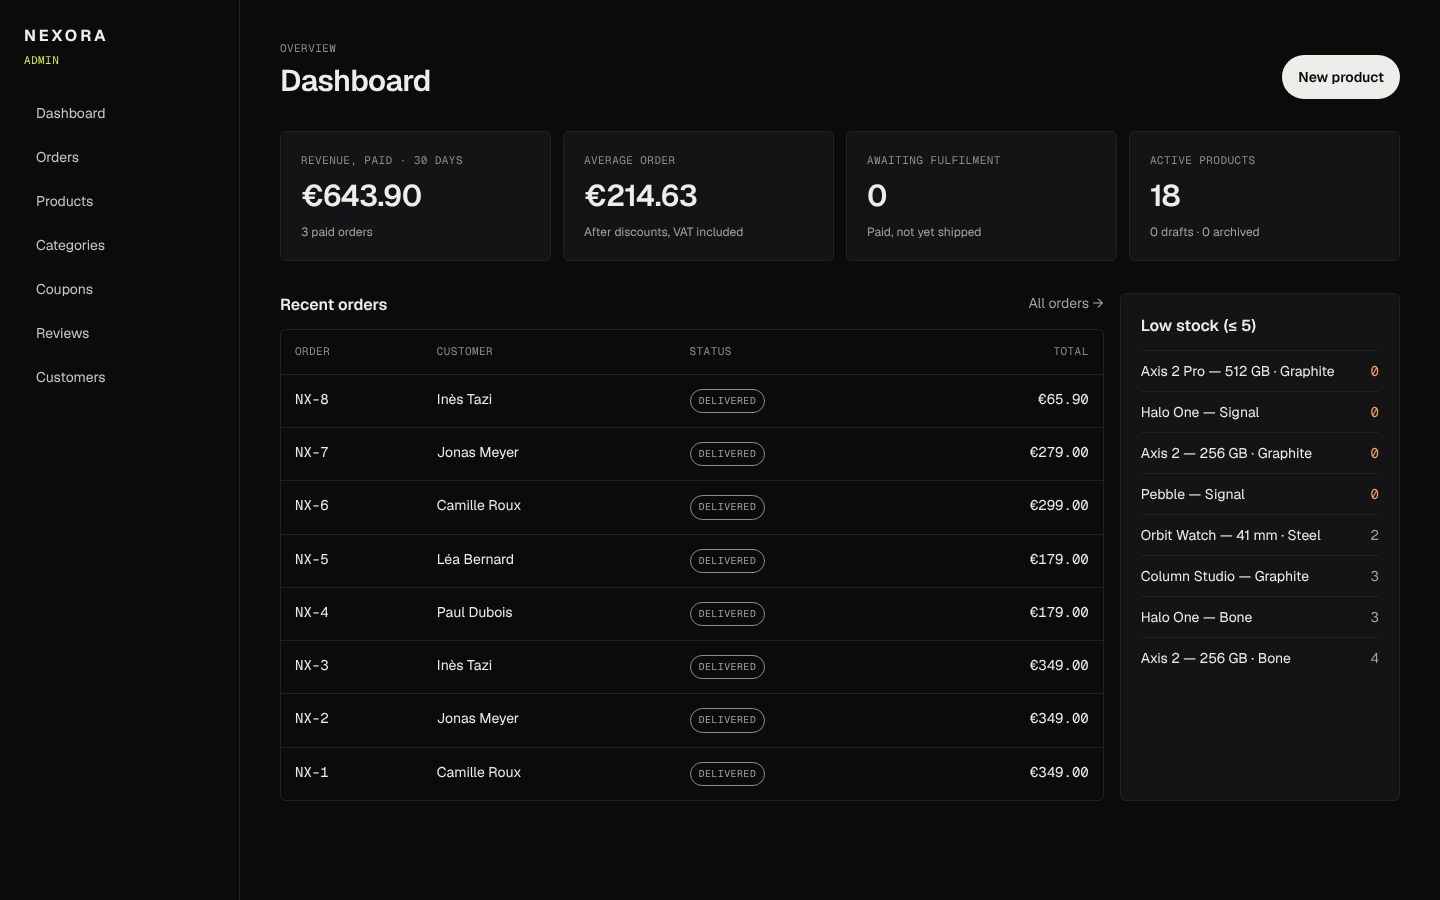
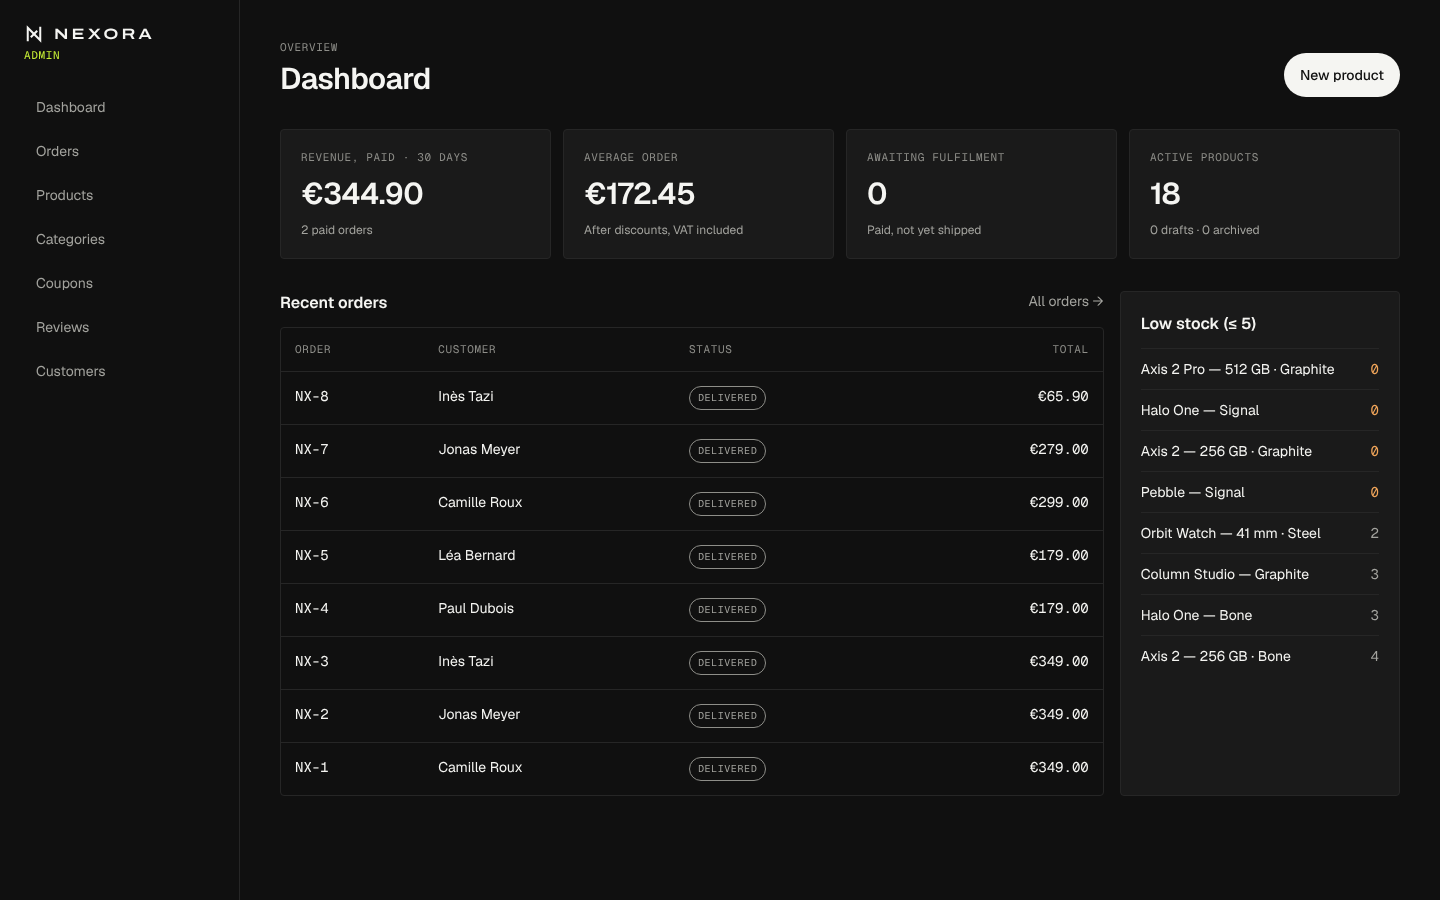
docs: redesign notes, measured Lighthouse, screenshots, responsive QA script
- README: design system and imagery section, ADR index, Lighthouse re-measured
  after the redesign (warm-cache range, compared with the first release)
- feature report: reduced-motion and no-JS checks, honest limits of renders
  and streamed sections without JavaScript
- testing guide: scripts/dev/qa-shots.mjs for screenshots, console errors and
  horizontal overflow at 320–1600 px
- screenshots regenerated from the production build

diff --git a/README.md b/README.md
@@ -44,6 +44,20 @@ Browser ──► Next.js 16 (App Router, React 19, Server Components, Server Ac
 A modular monolith: one deployable, with module boundaries that could become services later
 ([ADR-0001](docs/adr/0001-modular-monolith-nextjs.md)).
 
+### Design system and imagery
+
+- **Monochrome, semantic tokens.** `canvas`, `surface`, `fg`, `line`… defined once; `.theme-dark` re-maps
+  them, so the engineering story, campaign, footer and admin are dark without a second set of classes.
+  Every colour pair is checked for WCAG AA ([ADR-0009](docs/adr/0009-design-system-and-motion.md)).
+- **Type:** Archivo (variable width, subset to 32 KB) for display, Geist for text, Geist Mono for labels.
+- **Brand:** an original N/X monogram drawn on a 24-unit grid, a live-text wordmark, a first-visit intro
+  that plays once per session and never with reduced motion.
+- **Motion:** CSS for the hero and intro, one `RevealObserver` (Web Animations API) for scroll reveals, a
+  conceptual noise-cancelling diagram labelled as such. No animation library added.
+- **Product images** are rendered with three.js from procedural models built to the catalogue's specs, in
+  one shared studio setup ([ADR-0008](docs/adr/0008-procedural-product-renders.md)). Not stock photos: those
+  would show other companies' products under NEXORA names.
+
 ### Decisions worth reading
 
 | ADR                                                              | Decision                                                                                                              |
@@ -55,11 +69,12 @@ A modular monolith: one deployable, with module boundaries that could become ser
 | [0006](docs/adr/0006-cache-components-and-db-at-runtime.md)      | Cache Components with tagged catalog caching; the build needs no database                                             |
 | [0007](docs/adr/0007-migrations-from-restricted-environments.md) | How migrations were generated where the Prisma engine couldn't be downloaded                                          |
 | [0008](docs/adr/0008-procedural-product-renders.md)              | Product images rendered from procedural 3D models instead of stock or AI images                                       |
+| [0009](docs/adr/0009-design-system-and-motion.md)                | Semantic tokens with scoped dark sections; CSS-first, reduced-motion-aware animation                                  |
 
 ## Tech stack
 
 Next.js 16 · React 19 · TypeScript 6 (strict) · Tailwind CSS 4 · Motion · Lucide · PostgreSQL 16 · Prisma 7 ·
-better-auth · Stripe · Zod 4 · Vitest · Playwright + axe-core · Docker
+better-auth · Stripe · Zod 4 · Vitest · Playwright + axe-core · Docker · three.js (offline renders only)
 
 ## Quick start
 
@@ -91,23 +106,27 @@ Demo coupons: `NEXORA10` (10%), `WELCOME15` (15% over €200, 100 uses), `AUDIO2
 | `pnpm test:e2e`                                                 | Playwright on desktop and phone, with axe accessibility checks |
 | `pnpm db:migrate` / `db:deploy` / `db:seed`                     | Migrations and seed                                            |
 | `pnpm admin:create`                                             | Create or promote an admin                                     |
-| `pnpm render:products`                                          | Re-render product images (headless Chromium, three.js)         |
+| `pnpm render:products`                                          | Re-render product and homepage images (headless Chromium)      |
 
 ## Quality
 
-Measured, not assumed. All numbers below come from runs on 2026-10-25.
+Measured, not assumed. All numbers below come from runs on 2026-10-25, after the redesign.
 
 - **Unit + integration:** 79 tests across pricing, coupons, catalog queries, cart, orders, concurrency,
   webhooks, admin rules and authorization, account isolation ([docs/testing.md](docs/testing.md)).
 - **End-to-end:** 20 Playwright tests against the production build, including keyboard-only purchase,
   open-redirect and IDOR checks, and axe WCAG 2.1 AA scans with zero serious/critical violations.
-- **Lighthouse** (mobile emulation, local production build):
+- **Lighthouse** (mobile emulation, local production build, warm caches; range over repeated runs):
 
-  | Page                 | Perf | A11y | Best practices | SEO | LCP   | CLS   |
-  | -------------------- | ---- | ---- | -------------- | --- | ----- | ----- |
-  | `/`                  | 95   | 100  | 100            | 100 | 2.9 s | 0.002 |
-  | `/products`          | 90   | 100  | 100            | 100 | 3.3 s | 0.002 |
-  | `/products/halo-one` | 89   | 100  | 100            | 92¹ | 2.4 s | 0.002 |
+  | Page                 | Perf  | A11y | Best practices | SEO | LCP       | CLS |
+  | -------------------- | ----- | ---- | -------------- | --- | --------- | --- |
+  | `/`                  | 90–92 | 100  | 100            | 100 | 3.2–3.4 s | 0   |
+  | `/products`          | 89–90 | 100  | 100            | 100 | 3.6–3.7 s | 0   |
+  | `/products/halo-one` | 81–87 | 100  | 100            | 92¹ | 4.0 s     | 0   |
+
+  The first release scored 95 / 90 / 89; the redesign trades a few points on `/` and the product page for a
+  larger hero, a display face and a full gallery. The first run after a server start is slower (cold image
+  and data caches) and is not included.
 
   ¹ Metadata of streamed dynamic pages is emitted in the body; see [limitations](docs/feature-report.md#known-limitations).
 

diff --git a/docs/feature-report.md b/docs/feature-report.md
@@ -15,7 +15,8 @@ anything less is marked.
 | Orders persisted correctly                          | Done                | snapshot and concurrency tests; DB CHECK constraints                          |
 | Payment status verified via the payment integration | Done, with a caveat | signed-webhook tests; a real Stripe round trip needs test keys (not run here) |
 | Admin operations work and are protected             | Done                | `admin.test.ts`; e2e admin                                                    |
-| Responsive layouts checked                          | Done                | e2e on a Pixel 7 viewport; screenshots in `docs/screenshots`                  |
+| Responsive layouts checked                          | Done                | e2e on a Pixel 7 viewport; overflow check at 320/390/768/1024/1440/1600 px    |
+| Reduced motion and no-JS rendering                  | Done                | manual check: no intro, reveals shown; static shell complete without JS       |
 | No broken links or dead primary actions             | Done                | every button is wired; payments-off state is explicit, not dead               |
 | Type checking and linting pass                      | Done                | CI `verify` job                                                               |
 | Relevant tests pass                                 | Done                | 79 unit/integration + 20 e2e, green in CI                                     |
@@ -42,7 +43,12 @@ API: `/api/auth/*`, `/api/webhooks/stripe`, `/api/health`, plus `sitemap.xml` an
 ## Known limitations
 
 - **Product imagery is rendered, not photographed.** Procedural 3D models in one studio setup
-  ([ADR-0008](adr/0008-procedural-product-renders.md)). A real launch needs photography of real hardware.
+  ([ADR-0008](adr/0008-procedural-product-renders.md)); labelled as renders on the site. A real launch needs
+  photography of real hardware.
+- **Without JavaScript**, sections that stream catalogue data show their skeletons (Next.js streaming needs
+  JS to swap streamed HTML in). The hero, navigation and static copy are complete.
+- **Callout positions** on the homepage study come from the render (`public/brand/anchors.json`); re-render
+  after changing that model.
 - **Soft 404s on dynamic pages.** Pages stream; when a product or category doesn't exist, the not-found page is
   rendered with `noindex` but the status stays 200. Unmatched paths return a real 404.
 - **Metadata of dynamic pages is streamed** into the body for most user agents (Next.js behaviour), which
@@ -57,7 +63,7 @@ API: `/api/auth/*`, `/api/webhooks/stripe`, `/api/health`, plus `sitemap.xml` an
 ## Production-readiness tasks
 
 1. Email provider + email verification + order confirmation emails.
-2. Real product photography and an upload flow with validation.
+2. Real product photography (replacing the renders) and an upload flow with validation.
 3. Stripe refunds via API from the admin order page.
 4. Shared rate-limit store if more than one app instance runs.
 5. Structured logging and error monitoring.

diff --git a/docs/testing.md b/docs/testing.md
@@ -56,6 +56,16 @@ E2E_BASE_URL=http://localhost:3000 pnpm test:e2e
 
 `RATE_LIMIT_MULTIPLIER` is for tests only; never set it on a public deployment.
 
+### Visual and responsive checks
+
+```bash
+node scripts/dev/qa-shots.mjs /tmp/qa / 320 390 768 1024 1440 1600
+```
+
+Takes full-page screenshots at each width after scrolling through the page (so scroll reveals have run),
+and reports console errors and horizontal overflow. Used for the redesign at 320, 390, 768, 1024, 1440 and
+1600 px; reduced motion and JavaScript-disabled rendering were checked by hand with Playwright.
+
 ## Not covered by automated tests
 
 - A real Stripe Checkout round trip. The webhook handler is tested with correctly signed events, but the
